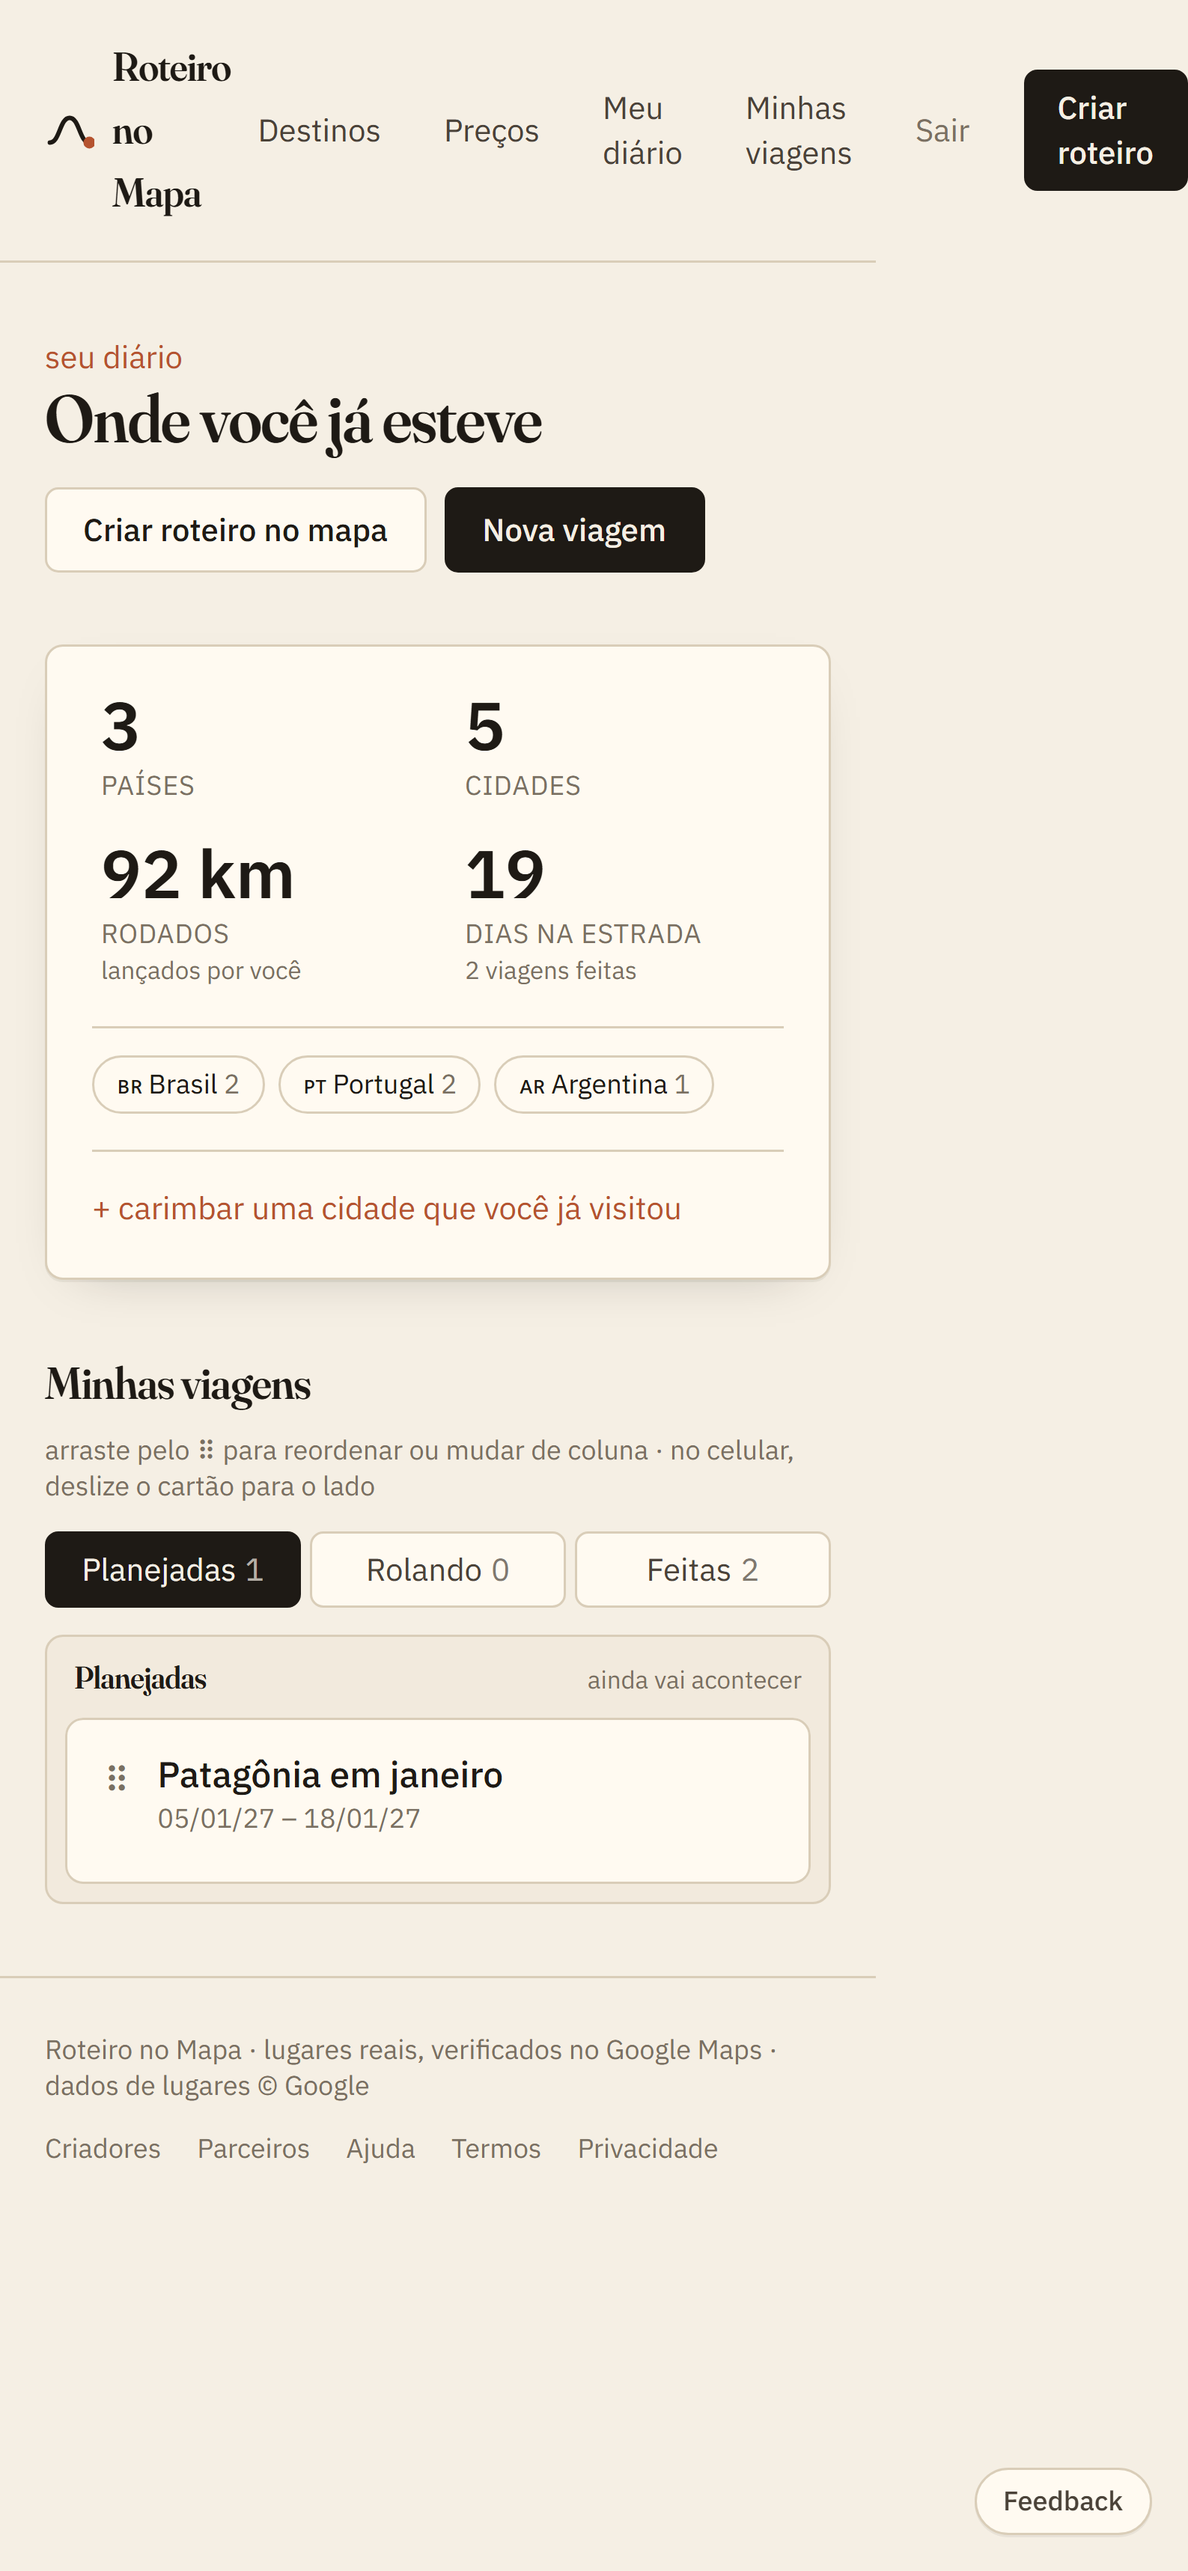
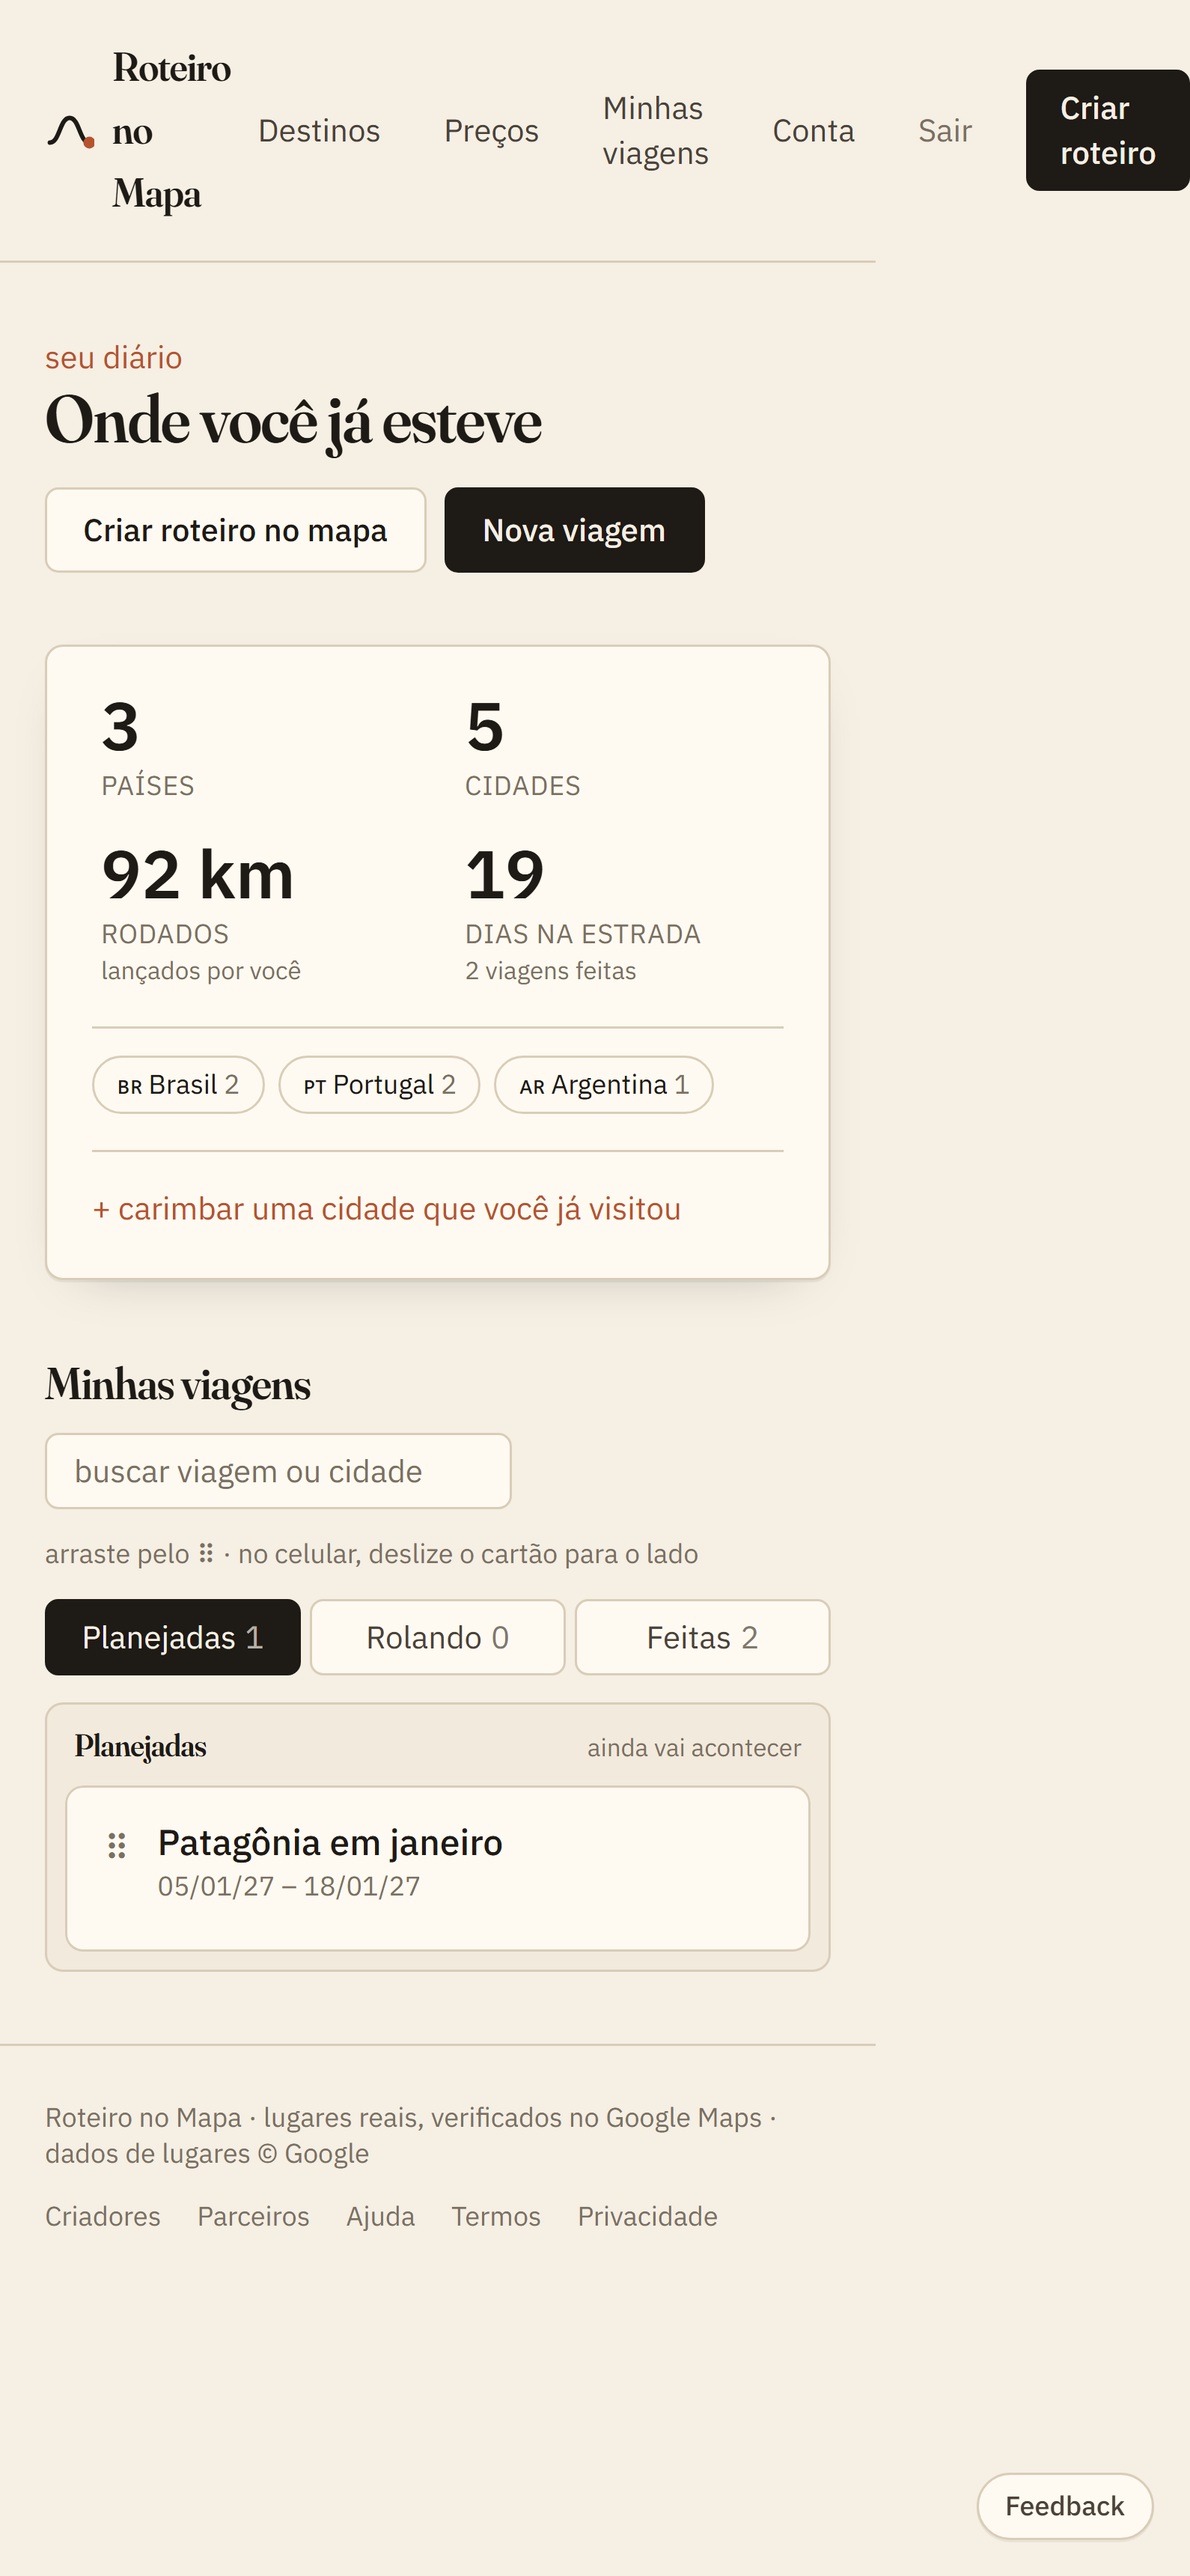
[manutenção] organização: uma casa só para as viagens, seções no caderno e busca
- `/viajante` virou **Minhas viagens** (passaporte + quadro + viagens de amigos) e
  `/conta` ficou só com recibos, links públicos e seus dados. Antes a mesma viagem
  aparecia nos dois lugares e o menu tinha dois nomes para a mesma coisa. Entrar sem
  destino e o e-mail de NPS passam a levar para `/viajante`.
- **Seções no caderno**: um bloco de título recolhe o que está abaixo dele (seta ▾/▸,
  com resumo "3 blocos · 92 km · R$ 480" quando fechado). Arrastar o título leva a
  seção inteira; o estado dobrado mora em `dados.fechado` (jsonb, sem migration).
- **Busca** no quadro por nome, cidade ou país, sem exigir acento. Enquanto ela está
  ligada o arrastar fica desligado — a ordem enviada precisa ser a lista inteira.
- Reordenar pelo teclado devolve o foco à pega depois do redesenho.
- Testes mais firmes: o E2E espera a resposta de `/blocos/ordem` em vez de cronometrar,
  e o teste de edição escolhe o lugar de reserva mais perto do dia (pegar qualquer um o
  deixava refém do catálogo, que cresce a cada geração no banco de desenvolvimento).
- `LIMITE_TAXA_FATOR` afrouxa o limitador só no ambiente de teste; sem a variável vale 1.

Rodada: motor 69, db 44, providers 26, web 23, E2E 5; lint e typecheck limpos.

Claude-Session: https://claude.ai/code/session_01PvTgseZtSyakGcFUDZqzWj

diff --git a/index.html b/index.html
@@ -143,12 +143,13 @@
               <li>Quadro em três colunas: <strong>planejadas, rolando, feitas</strong>.</li>
               <li>Roteiros criados no app entram sozinhos, com cidades e km já calculados.</li>
               <li>Viagem de carro de 2015? Cria à mão e carimba as cidades.</li>
+              <li>Busca por nome, cidade ou país — sem precisar de acento.</li>
             </ul>
             <p><a class="botao pequeno" href="demo.html">Experimentar o diário &rarr;</a></p>
           </div>
           <figure>
             <img src="img/viajante.png" alt="Passaporte com países, cidades, km rodados e o quadro de viagens" />
-            <figcaption>3 países, 5 cidades, 92 km rodados, 19 dias na estrada.</figcaption>
+            <figcaption>O passaporte conta só o que já aconteceu; o planejado aparece de lado.</figcaption>
           </figure>
         </div>
       </section>
@@ -157,7 +158,9 @@
         <div class="limite dupla invertida">
           <figure>
             <img src="img/caderno.png" alt="Caderno de uma viagem com blocos de hotel, moto e tarefa" />
-            <figcaption>Cada bloco tem os campos do seu tipo: reserva, endereço, horário, quanto custou.</figcaption>
+            <figcaption>
+              Um título vira seção: a seta recolhe o dia inteiro e mostra o resumo (blocos, km e gasto).
+            </figcaption>
           </figure>
           <div class="texto">
             <h2>Um caderno por viagem, tipo Notion</h2>
@@ -166,6 +169,7 @@
               carro, moto, barco, monumento, restaurante, ingresso, gasto, tarefa, anotação, link.
             </p>
             <ul>
+              <li>Um bloco de <strong>título</strong> vira seção: dobra o dia inteiro com um clique.</li>
               <li>Os blocos de transporte carregam os <strong>km</strong>, que sobem para o passaporte.</li>
               <li>Os que têm valor somam o <strong>gasto da viagem</strong>.</li>
               <li>Arrasta pela pega, no dedo ou no mouse; desliza para o lado para remover.</li>
